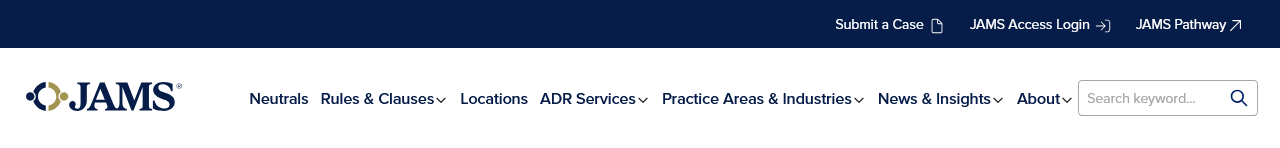
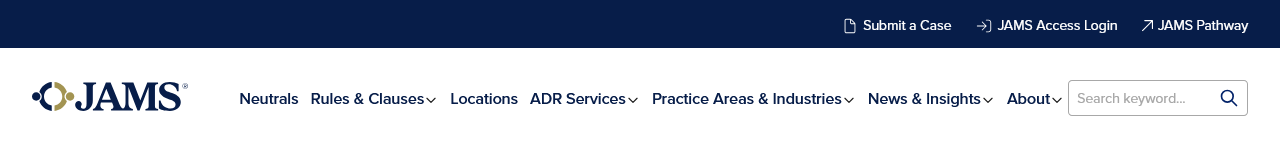
project update

diff --git a/tests/footer.spec.js b/tests/footer.spec.js
@@ -25,7 +25,7 @@ test('footerUI', async ({ page }) => {
   document.querySelector('.footer-content-social-links')?.classList.add('hidden');
   }); */
 
-  await expect(footer).toHaveScreenshot('footer.png');
+  await expect(footer).toHaveScreenshot('footer.png', { maxDiffPixels: 50 });
 
 
 });